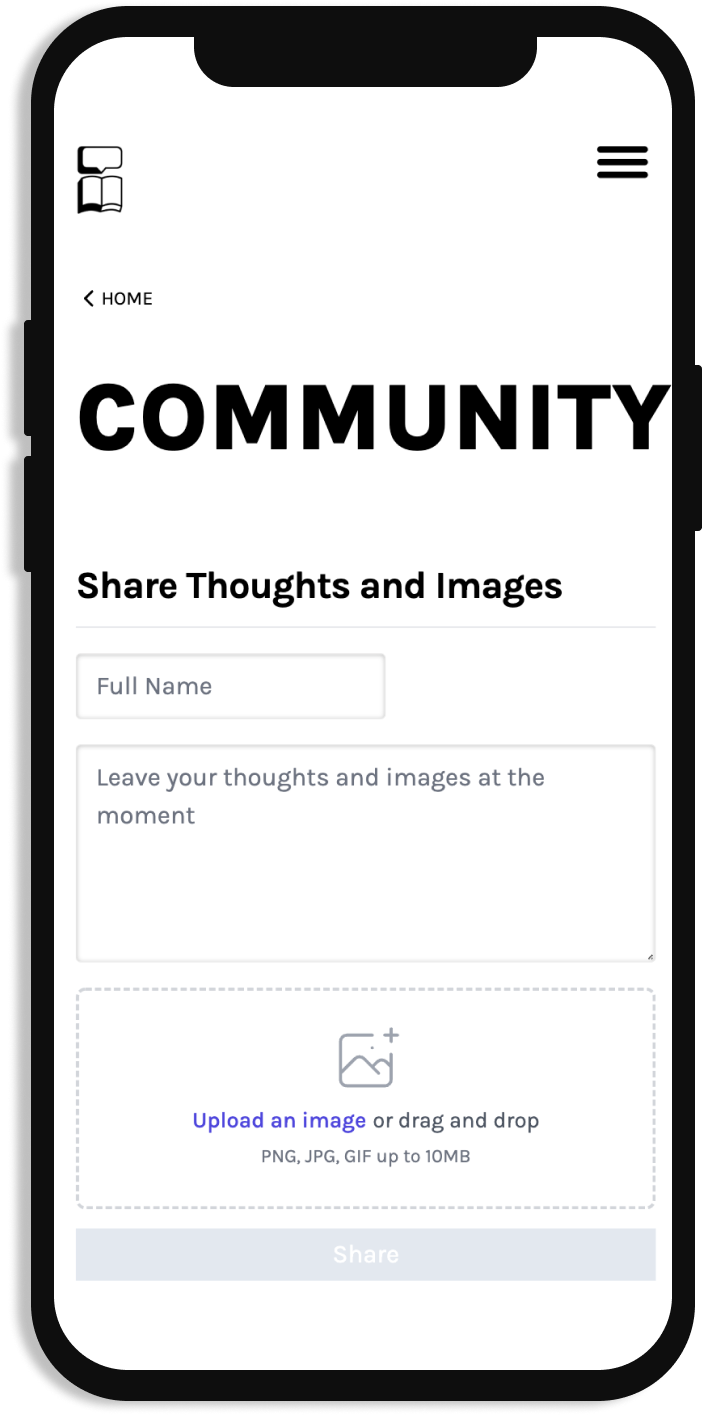
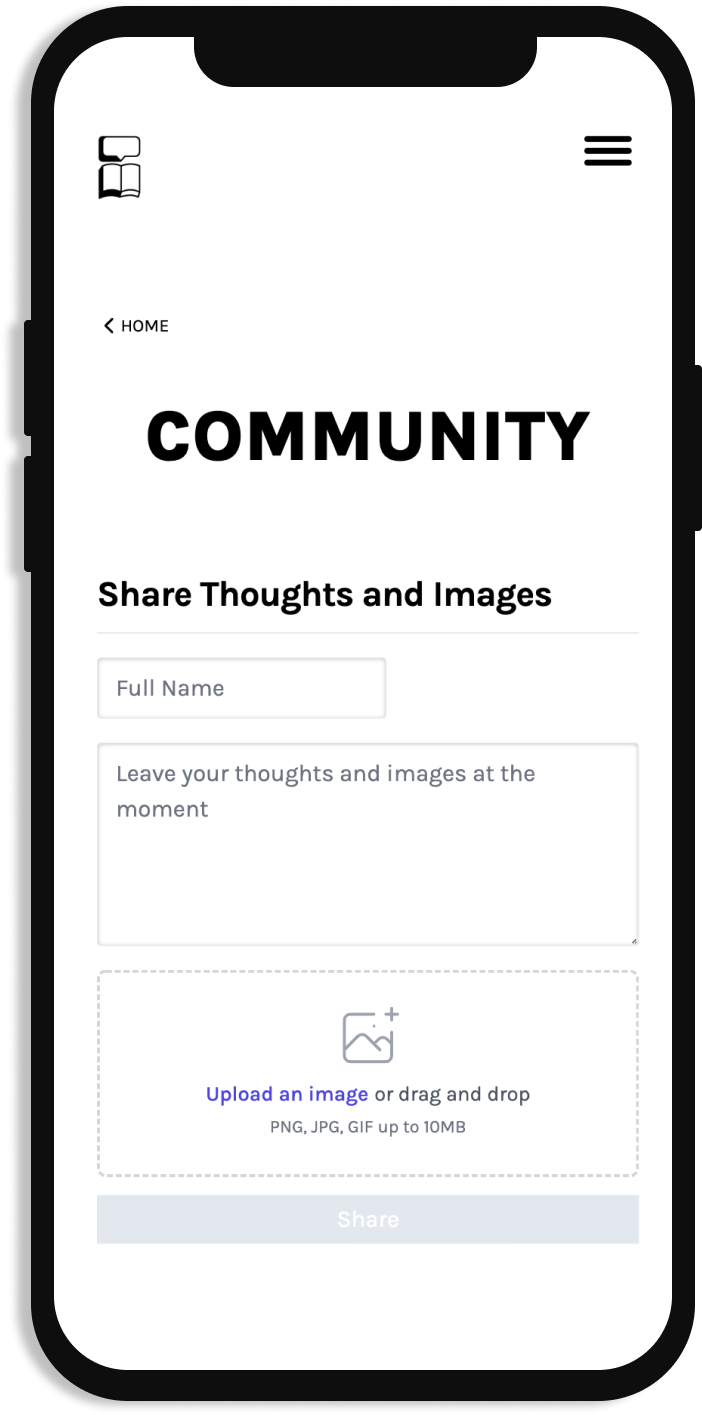
cleanup title on mobile

diff --git a/apps/frontend/components/PageTitle.js b/apps/frontend/components/PageTitle.js
@@ -8,7 +8,7 @@ export default function PageTitle({ smallText, largeText }) {
         <p className="small-title uppercase text-center">{smallText}</p>
       )}
       {largeText && (
-        <h1 className="page-title text-6xl tracking-wide">{largeText}</h1>
+        <h1 className="page-title text-5xl sm:text-6xl tracking-wide">{largeText}</h1>
       )}
     </div>
   );
